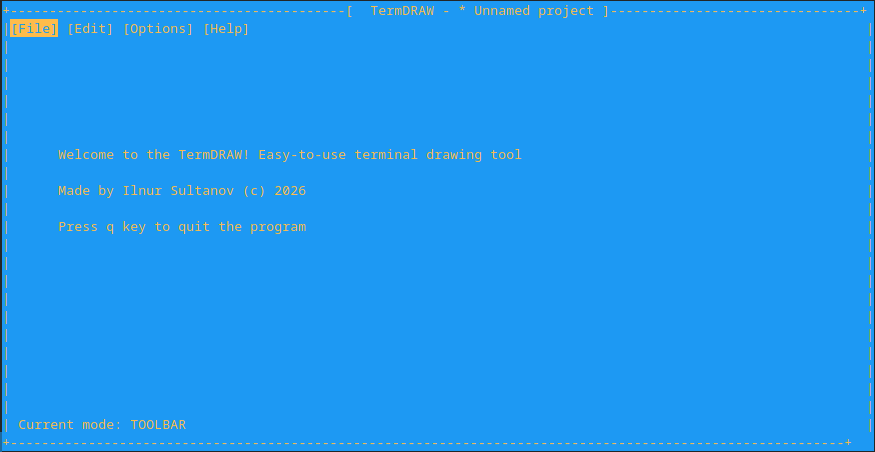
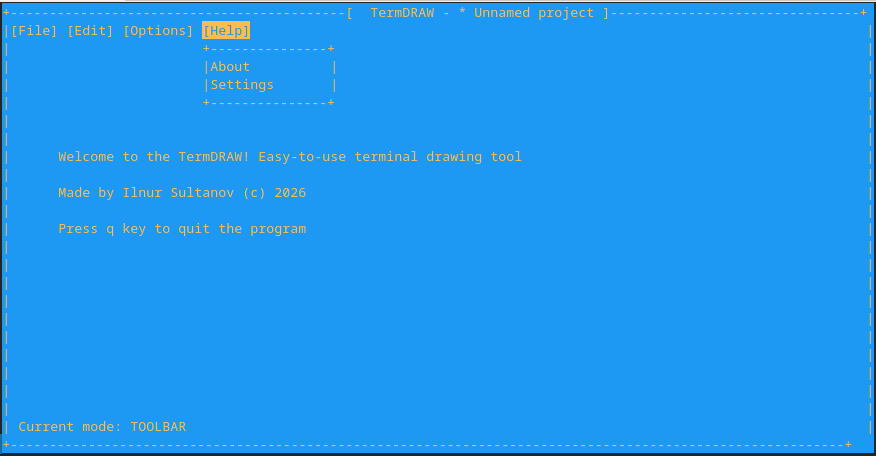
feat(Toolbar): added submenu nav and changed screenshot

diff --git a/src/Toolbar.cpp b/src/Toolbar.cpp
@@ -45,6 +45,10 @@ void Toolbar::draw(Focus currentFocus) {
             1
         );
         popupPanel.draw();
+        for (const auto& item : currentSection.items) {
+            moveCursor(selectedX + 1, 4 + &item - &currentSection.items[0]);
+            std::cout << item.caption;
+        }
     }
 }
 
@@ -88,6 +92,21 @@ bool Toolbar::handleInput(SpecialKey key) {
         case SpecialKey::ARROW_KEY_LEFT:
             if (selectedButton > 0) {
                 selectedButton--;
+            }
+            break;
+        case SpecialKey::ARROW_KEY_DOWN:
+            if (activeSubMenu) {
+                if (selectedSubMenuButton < menus[selectedButton].items.size() - 1) {
+                    selectedSubMenuButton++;
+                }
+            }
+            break;
+        
+        case SpecialKey::ARROW_KEY_UP:
+            if (activeSubMenu) {
+                if (selectedSubMenuButton > 0) {
+                    selectedSubMenuButton--;
+                }
             }
             break;
     }

diff --git a/main.cpp b/main.cpp
@@ -96,6 +96,7 @@ int main()
     init();
     while (running) {
         drawUi();
+        std::cout.flush();
         SpecialKey key = readKey();
         if (key == SpecialKey::KEY_TAB) {
             toggleFocus();
